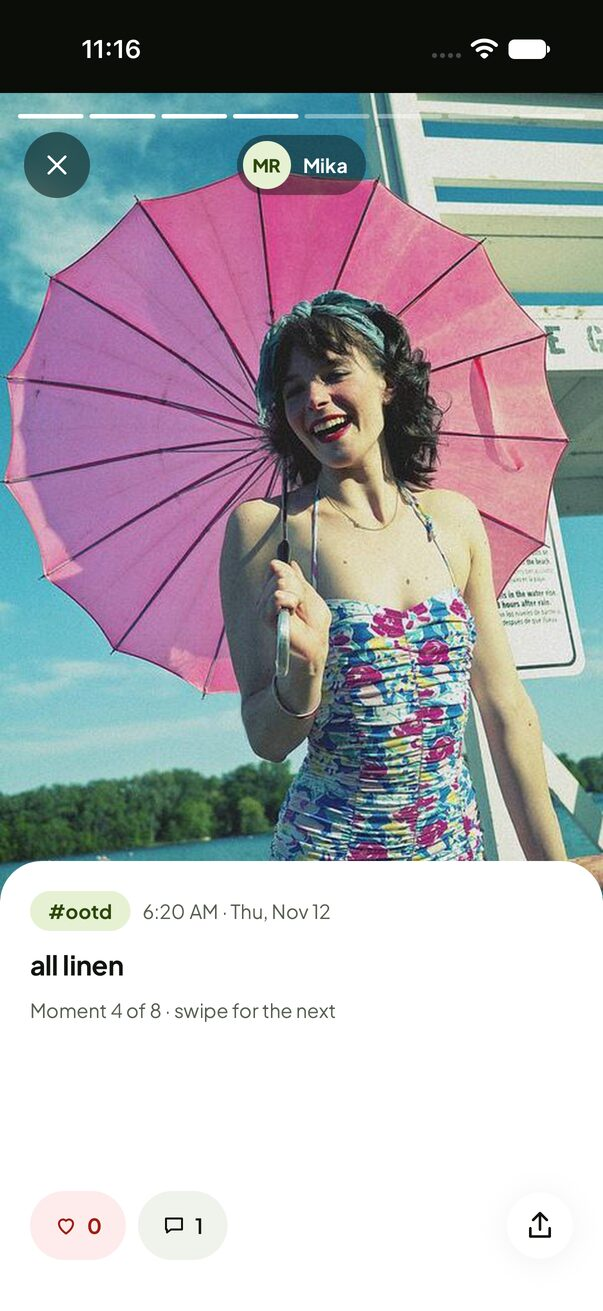
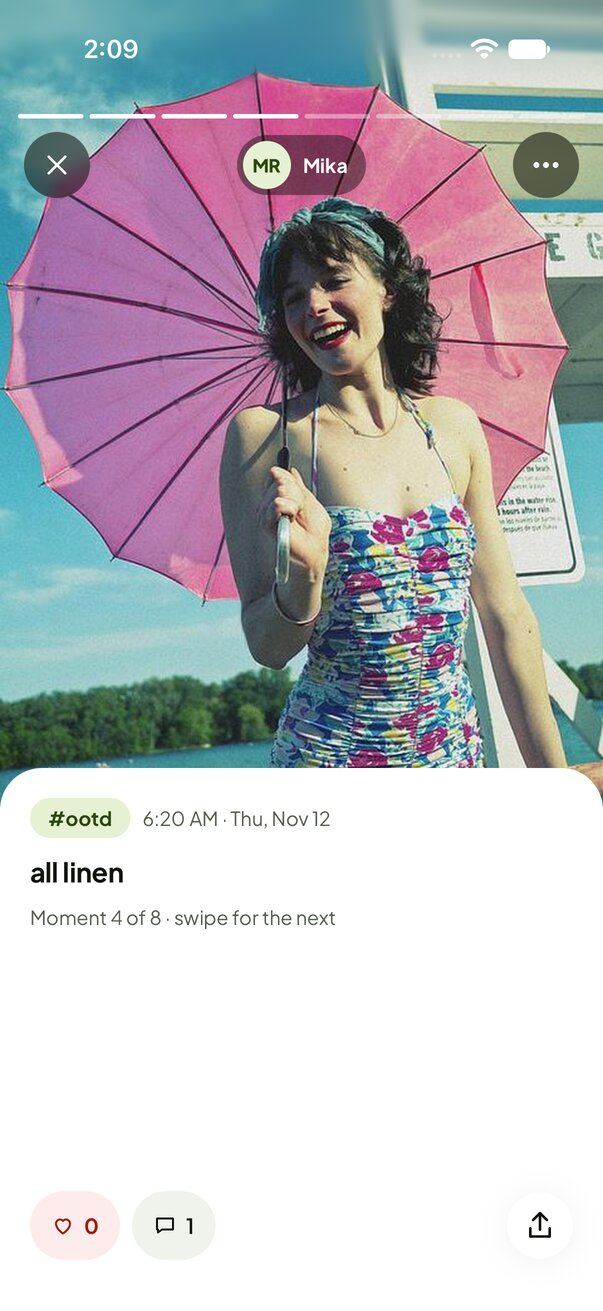
FR-SOC-04: Moment detail photo runs full-bleed under the status bar
Amp-Thread-ID: https://ampcode.com/threads/T-01a1ccb2-c1a1-7259-8905-983637617e89

diff --git a/apps/mobile/src/features/moment/MomentDetailView.tsx b/apps/mobile/src/features/moment/MomentDetailView.tsx
@@ -132,7 +132,8 @@ export function MomentDetailView({
 
   return (
     <View style={styles.screen} testID="moment-detail">
-      <View style={{ height: photoHeight + insets.top, paddingTop: insets.top }}>
+      {/* The photo runs full-bleed under the status bar (Moment); the bars and buttons sit below the inset. */}
+      <View style={{ height: photoHeight }}>
         <View
           accessible
           accessibilityRole="adjustable"
